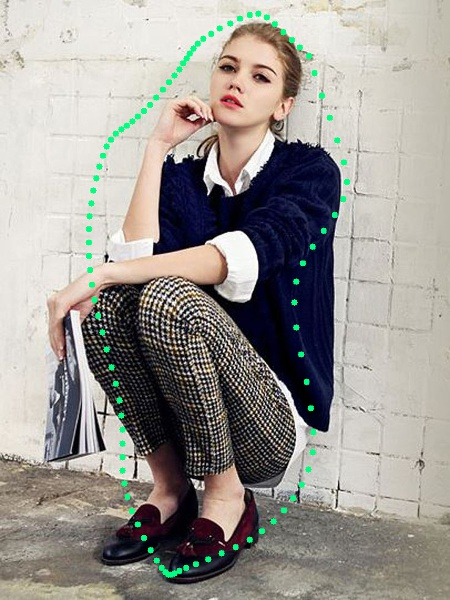
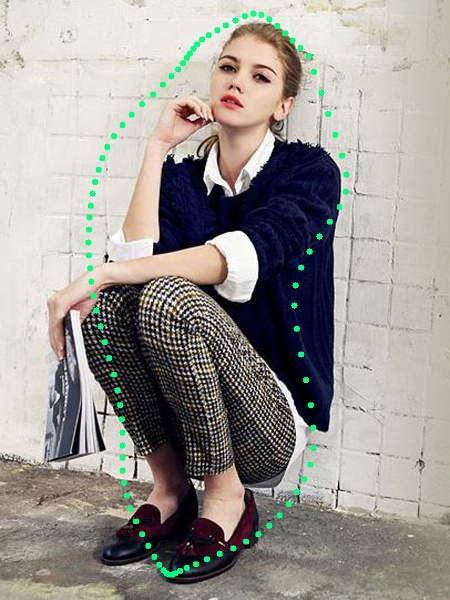
update the way to calculate alpha value

diff --git a/HPE_NatureCutout.py b/HPE_NatureCutout.py
@@ -43,7 +43,6 @@ for k, file_id in enumerate(file_id_list):
 	landmark = mat['preds_2d']
 	x_posi = landmark[0]
 	y_posi = landmark[1]
-	maxDif_ydir = max(y_posi)-min(y_posi)
 	landmark_N = len(x_posi) # calculate the human pose landmark number (in this case should be 16 points)
 
 	# save each position as the value in Dict
@@ -159,10 +158,13 @@ for k, file_id in enumerate(file_id_list):
 	extendPt_Draw = [[x] for x in extendPt]
 	extendPt = np.array(extendPt)
 
+	maxDif_ydir = max(extendPt[:,1])-min(extendPt[:,1])
+	maxDif_xdir = max(extendPt[:,0])-min(extendPt[:,0])
+
 	## Start Connecting These extend-pts (using Bezier Curve)
 	# use Alpha shape to remain those really important pts.
 	# [Note]: with larger alpha-value, we can find more fitting contour (but can't be too large(i.e. threshold would be too small, and so no more triangles could be added into the contour set, which will cause error.))
-	alpha = 3.5/maxDif_ydir # why 3.5? -> it's just exp. result. [eg. 1200 pt in 'maximum-y-diff', we will use 0.003 as alpha-value]
+	alpha = 3.5/max(maxDif_ydir,maxDif_xdir) # why 3.5? -> it's just exp. result. [eg. 1200 pt in 'maximum-y-diff', we will use 0.003 as alpha-value]
 	triangles, edge_points = alpha_shape(extendPt, alpha)
 
 	## shoaw result of Delauny-triangular
@@ -279,7 +281,7 @@ for k, file_id in enumerate(file_id_list):
 		cv2.destroyAllWindows()	
 
 	# Save Output Images
-	outdir = './New_Output/'
+	outdir = './output/'
 	if not os.path.exists(outdir):
 	    os.makedirs(outdir)
 	cv2.imwrite( outdir+file_id+"_"+"Base_On_HPE.jpg",img_HPE_extend);
